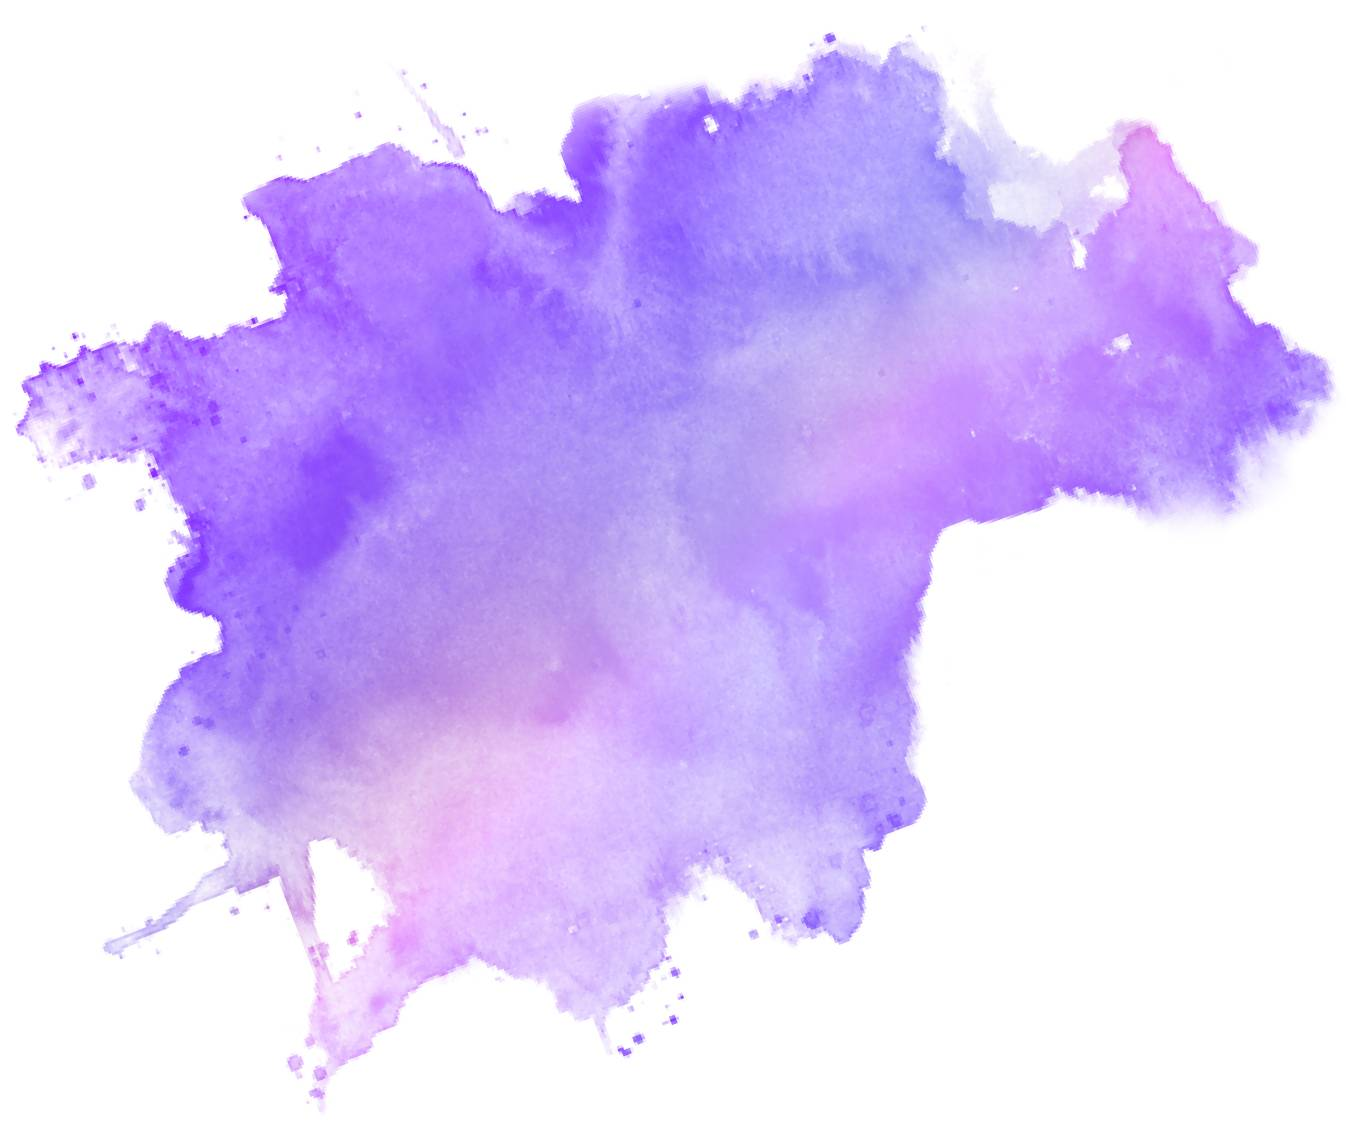
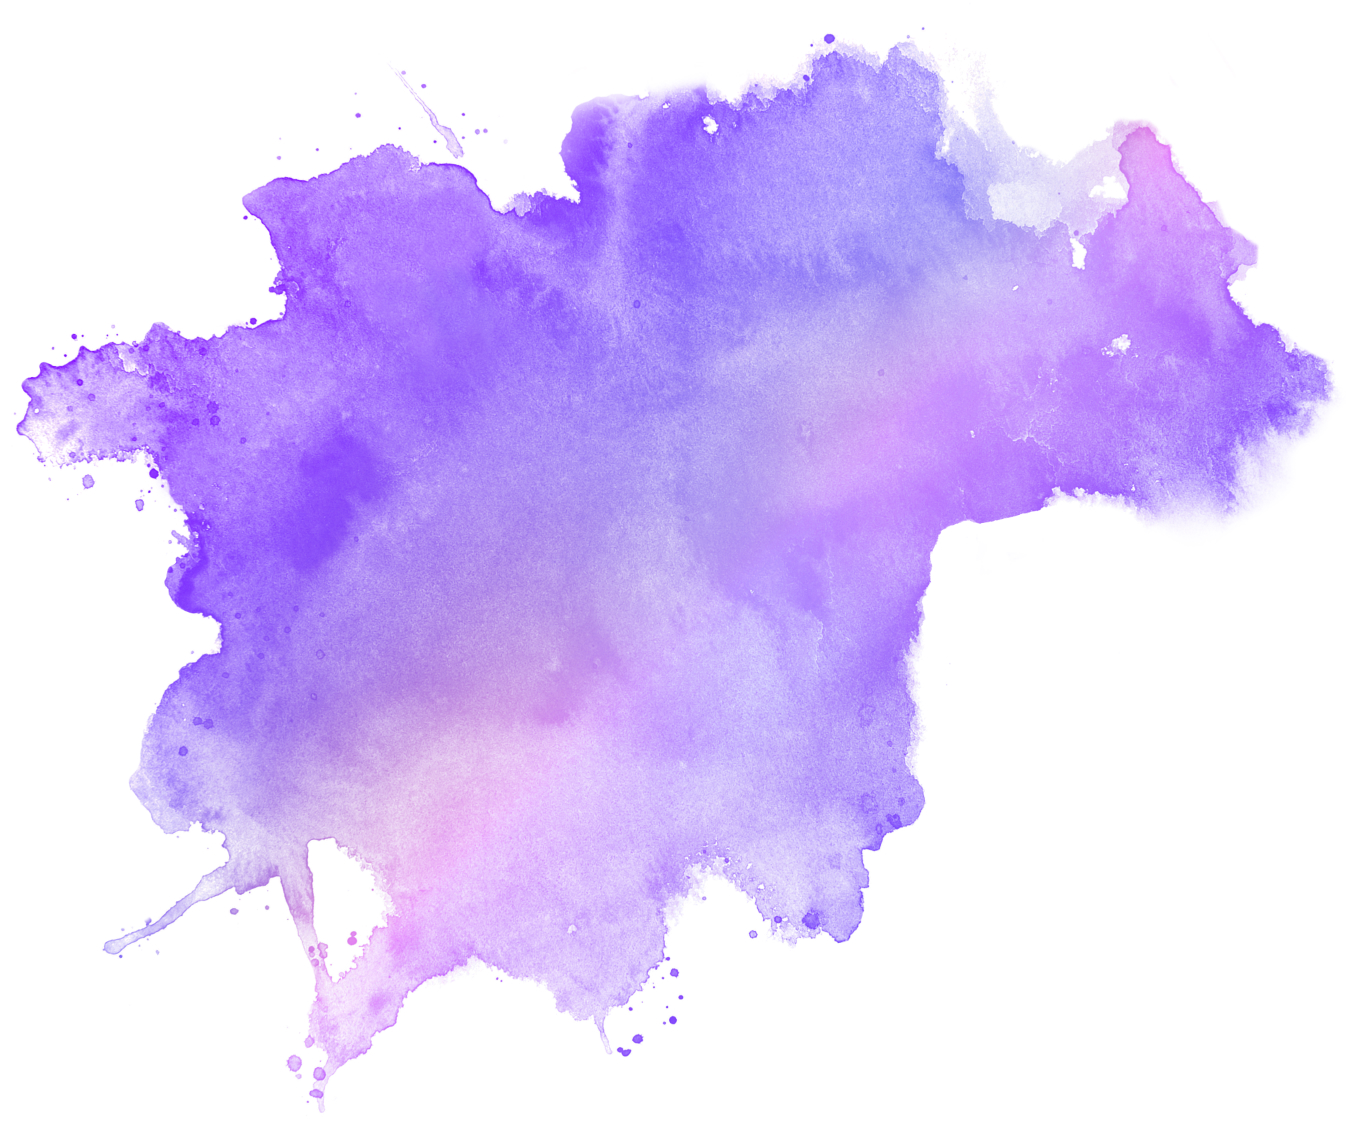
Заменил писксельное фиолетовое пятно для фона на качественное.

diff --git a/index.html b/index.html
@@ -146,7 +146,7 @@
       </div>
     </div>
   </div>
-  <div class="purple_spot"><img src="images/back-purple.jpg" alt=""></div>
+  <div class="purple_spot"><img src="images/back-purple.png" alt=""></div>
 </div>
 
 <div class="block_with_background friendship_section">
